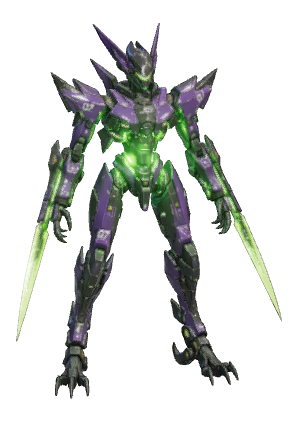
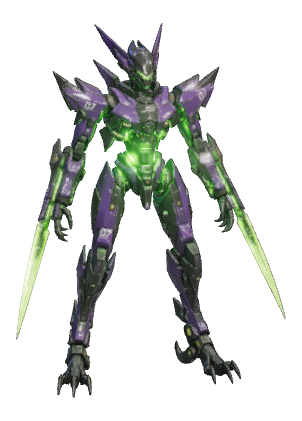
viper: install the new rig; hold its skin patch back, with the numbers
THE RIG IS IN, spliced through tools/rigfmt.mjs so the header, `skinSpan:
'child'` and the in-array comments survived (the upload is a bare editor export
and would have deleted all of it).

It genuinely helps the animation, which is measurable rather than a hunch. The
ankle bone came down off the high hock — mesh-local y 0.135 -> 0.03, i.e. 0.92
-> 0.21 world units above the sole — so Animator.calibrateFeet now measures
footDepth 0.206 against 0.925 and hands the gait

  ankleGain  0.35 -> 1.0     (the heel roll and toe-off were damped to a third)
  footFlat   1.0  -> 0       (and then levelled flat again by the long-boot rule)

Viper's foot now rolls through the amount of ground the gait was authored for,
with the sole still on the floor (-0.7% of body height at its lowest). The skin
audit likes the rig too: node tools/skindebug.mjs viper total severity
1863.5 -> 1500.9 (-19%), no new at-rest findings.

ANCHORS KEPT (house rule). muzzleR rides elbowR and muzzleL rides handL; both
bones moved, so the offsets are re-expressed to hold their rest-pose world
position: drift 0.145 / 0.128 units -> 0.0005 / 0.0006. Residual aim is 0.85 /
0.60 degrees, which is the bone's own rest orientation under the retarget and
not something a manifest number can express. The blade-trail anchors are left
alone deliberately — they ARE bladeLtip/bladeRtip at offset [0,0,0], so
following the tip the author moved is the intent, not drift. Poster re-rendered.
[…]

diff --git a/src/mechs/rigs/viper.rig.js b/src/mechs/rigs/viper.rig.js
@@ -41,37 +41,37 @@ export const VIPER_RIG = {
     //      up to the collar; bias<1 so neither loses its middle to a limb)
     { name: 'hips', parent: null, pos: [0.02, 0.60, 0.00], bias: 0.9 },
     { name: 'torso', parent: 'hips', pos: [0.00, 0.70, 0.00], bias: 0.85 },
-    { name: 'head', parent: 'torso', pos: [0.01, 0.84, 0.00], bias: 1.05 },
+    { name: 'head', parent: 'torso', pos: [0.02, 0.82, 0.00], bias: 1.05 },
     { name: 'crest', parent: 'head', pos: [0.02, 0.96, 0.00] },   // skull + horn spire
     { name: 'horn', parent: 'head', pos: [-0.10, 0.87, 0.00] },   // back-swept horns
     // ---- LEFT arm (+z) ---- pauldron on the shoulder, dagger off the forearm
-    { name: 'shoulderL', parent: 'torso', pos: [0.00, 0.790, 0.110], bias: 0.85 },
-    { name: 'elbowL', parent: 'shoulderL', pos: [0.00, 0.635, 0.185] },
-    { name: 'handL', parent: 'elbowL', pos: [0.02, 0.515, 0.245] },
-    { name: 'fingerL', parent: 'handL', pos: [0.05, 0.440, 0.270] },
+    { name: 'shoulderL', parent: 'torso', pos: [0.00, 0.78, 0.12], bias: 0.85 },
+    { name: 'elbowL', parent: 'shoulderL', pos: [-0.02, 0.64, 0.18] },
+    { name: 'handL', parent: 'elbowL', pos: [0.03, 0.51, 0.23] },
+    { name: 'fingerL', parent: 'handL', pos: [0.05, 0.44, 0.27] },
     // left dagger: root at the forearm emitter, tip at the point. bias<1 so the
     // blade wins its own verts outright over the forearm/hand spans beside it
-    { name: 'bladeL', parent: 'elbowL', pos: [0.03, 0.475, 0.275], bias: 0.75 },
-    { name: 'bladeLtip', parent: 'bladeL', pos: [0.125, 0.185, 0.375] },
+    { name: 'bladeL', parent: 'elbowL', pos: [0.03, 0.47, 0.28], bias: 0.75 },
+    { name: 'bladeLtip', parent: 'bladeL', pos: [0.13, 0.18, 0.38] },
     // ---- RIGHT arm (-z) ----
-    { name: 'shoulderR', parent: 'torso', pos: [0.00, 0.790, -0.110], bias: 0.85 },
-    { name: 'elbowR', parent: 'shoulderR', pos: [0.00, 0.635, -0.185] },
-    { name: 'handR', parent: 'elbowR', pos: [0.02, 0.505, -0.245] },
-    { name: 'fingerR', parent: 'handR', pos: [0.05, 0.430, -0.270] },
-    { name: 'bladeR', parent: 'elbowR', pos: [0.03, 0.475, -0.275], bias: 0.75 },
-    { name: 'bladeRtip', parent: 'bladeR', pos: [0.125, 0.185, -0.375] },
+    { name: 'shoulderR', parent: 'torso', pos: [0.00, 0.78, -0.12], bias: 0.85 },
+    { name: 'elbowR', parent: 'shoulderR', pos: [-0.02, 0.64, -0.18] },
+    { name: 'handR', parent: 'elbowR', pos: [0.02, 0.51, -0.25] },
+    { name: 'fingerR', parent: 'handR', pos: [0.05, 0.43, -0.27] },
+    { name: 'bladeR', parent: 'elbowR', pos: [0.03, 0.47, -0.28], bias: 0.75 },
+    { name: 'bladeRtip', parent: 'bladeR', pos: [0.13, 0.18, -0.37] },
     // ---- LEFT leg (+z) ---- digitigrade: the ankle sits high at the back of a
     //      long clawed foot, so toe/heel tips carry the talon and the spur
-    { name: 'thighL', parent: 'hips', pos: [0.01, 0.610, 0.090] },
-    { name: 'kneeL', parent: 'thighL', pos: [0.01, 0.385, 0.115] },
-    { name: 'ankleL', parent: 'kneeL', pos: [-0.01, 0.135, 0.175] },
-    { name: 'toeL', parent: 'ankleL', pos: [0.08, 0.020, 0.200] },
-    { name: 'heelL', parent: 'ankleL', pos: [-0.09, 0.030, 0.155] },
+    { name: 'thighL', parent: 'hips', pos: [0.02, 0.59, 0.07] },
+    { name: 'kneeL', parent: 'thighL', pos: [0.02, 0.36, 0.12] },
+    { name: 'ankleL', parent: 'kneeL', pos: [-0.03, 0.03, 0.17] },
+    { name: 'toeL', parent: 'ankleL', pos: [0.08, 0.02, 0.20] },
+    { name: 'heelL', parent: 'ankleL', pos: [-0.09, 0.03, 0.16] },
     // ---- RIGHT leg (-z) ----
-    { name: 'thighR', parent: 'hips', pos: [0.01, 0.610, -0.090] },
-    { name: 'kneeR', parent: 'thighR', pos: [0.01, 0.385, -0.115] },
-    { name: 'ankleR', parent: 'kneeR', pos: [-0.01, 0.130, -0.175] },
-    { name: 'toeR', parent: 'ankleR', pos: [0.08, 0.020, -0.200] },
-    { name: 'heelR', parent: 'ankleR', pos: [-0.09, 0.030, -0.155] },
+    { name: 'thighR', parent: 'hips', pos: [0.02, 0.59, -0.07] },
+    { name: 'kneeR', parent: 'thighR', pos: [0.02, 0.37, -0.12] },
+    { name: 'ankleR', parent: 'kneeR', pos: [-0.02, 0.03, -0.18] },
+    { name: 'toeR', parent: 'ankleR', pos: [0.08, 0.02, -0.20] },
+    { name: 'heelR', parent: 'ankleR', pos: [-0.09, 0.03, -0.16] },
   ],
 };

diff --git a/workbench/tools/skin.js b/workbench/tools/skin.js
@@ -1734,18 +1734,24 @@ ${state.seamCuts.inManifest ? `<div class="warn"><b>Seam cuts are NOT applied in
   // the patch this session's ops make, as an object — the one source both
   // Export (text, for pasting) and Save (POST, for writing) format from
   function opsPatch() {
-    const list = compactSkinOps(ops);
+    const list = outgoingOps();
     return altOn ? { [curId]: { alt: { skinOps: list } } } : { [curId]: { skinOps: list } };
   }
 
   // SAVE — write the ops into public/models/manifest.json on this machine via
   // the dev server (vite.config.js), so a reload of the game or any workbench
   // picks them up. Still local: committing is what publishes them.
+  // WHAT LEAVES THIS TOOL. Superseded ops dropped (compact), then every
+  // whole-island selector pinned to the vertices it means (pin) — a `{comp:N}`
+  // ordinal is only valid against the rig that drew the partition, and a rig
+  // edit renumbers it onto other geometry without a word. See pinSkinOps.
+  const outgoingOps = () => pinSkinOps(compactSkinOps(ops), analysis);
+
   const saveBtn = actionBtn('Save to manifest ▶', async () => {
-    const list = compactSkinOps(ops);
+    const list = outgoingOps();
     saveBtn.disabled = true;
     setStatus(`Saving ${list.length} op(s) to manifest.json under "${curId}${altOn ? '.alt' : ''}"…`);
-    const res = await config.skin.save(curId, compactSkinOps(ops), { variant: altOn ? 'alt' : 'glb' });
+    const res = await config.skin.save(curId, list, { variant: altOn ? 'alt' : 'glb' });
     saveBtn.disabled = false;
     if (res.ok) {
       setStatus(`SAVED — ${list.length} op(s) written to public/models/manifest.json (${res.written.join(', ')}).` +
@@ -1772,9 +1778,10 @@ ${state.seamCuts.inManifest ? `<div class="warn"><b>Seam cuts are NOT applied in
     // the ops belong to the entry they were painted on: nest them under
     // "alt" when the alternate build is loaded, or the patch would be pasted
     // onto the wrong model
+    const list = outgoingOps();
     const json = altOn
-      ? `{\n  "${curId}": {\n    "alt": {\n      "skinOps": ${skinOpsToJson(compactSkinOps(ops), '      ')}\n    }\n  }\n}`
-      : `{\n  "${curId}": {\n    "skinOps": ${skinOpsToJson(compactSkinOps(ops), '    ')}\n  }\n}`;
+      ? `{\n  "${curId}": {\n    "alt": {\n      "skinOps": ${skinOpsToJson(list, '      ')}\n    }\n  }\n}`
+      : `{\n  "${curId}": {\n    "skinOps": ${skinOpsToJson(list, '    ')}\n  }\n}`;
     out.style.display = 'block';
     out.value = json;
     out.select();

diff --git a/src/mechs/skinops.js b/src/mechs/skinops.js
@@ -622,6 +622,43 @@ export function compactSkinOps(ops) {
   });
 }
 
+/**
+ * PIN every whole-island selector to the vertex list it means RIGHT NOW.
+ *
+ * `{"comp": 25}` is an ORDINAL into the proximity partition the CURRENT rig
+ * produces, so it only means what its author meant while that rig is in place.
+ * Move one bone and the partition is redrawn — 69 islands become 47 — and every
+ * id lands on different geometry, silently: this is how jerry's back once ended
+ * up bound to his foot, and how a viper skin patch authored on the previous rig
+ * came back selecting his elbows. A VERTEX INDEX is a property of the geometry,
+ * which no rig edit can renumber, so that is the form a saved op takes.
+ *
+ * The cost is file size (an island of 1,300 vertices is ~9 KB of numbers against
+ * 20 bytes for the ordinal), which is why the workbench still WORKS in islands —
+ * it only pins them on the way out.
+ *
+ * Selectors that are not a bare island (`verts`, `bone`, `comp` + `bone`) are
+ * passed through untouched: they either already name geometry or mean something
+ * the partition can't renumber.
+ */
+export function pinSkinOps(ops, analysis) {
+  if (!ops?.length || !analysis?.comps) return ops || [];
+  return ops.map((op) => {
+    const sel = op?.sel;
+    if (!sel || sel.comp === undefined || sel.bone !== undefined) return op;
+    const comp = analysis.comps[sel.comp];
+    if (!comp?.verts?.length) return op;          // unknown id: leave it alone
+    return { ...op, sel: { ...sel, comp: undefined, verts: comp.verts.slice().sort((a, b) => a - b) } };
+  }).map((op) => {
+    // drop the now-undefined `comp` key so the JSON stays clean
+    if (op.sel && 'comp' in op.sel && op.sel.comp === undefined) {
+      const { comp, ...rest } = op.sel;
+      return { ...op, sel: rest };
+    }
+    return op;
+  });
+}
+
 // Serialize an op list one op per line — a 100-op list stays ~100 lines
 // instead of the ~800 that pretty-printed JSON produces in manifest.json.
 export function skinOpsToJson(ops, indent = '  ') {

diff --git a/workbench/adapters/robotworld/index.js b/workbench/adapters/robotworld/index.js
@@ -38,7 +38,7 @@ import {
 import { rigFor, rigIds } from '../../../src/mechs/rigs/index.js';
 import { applyCustomRig, setWeights, rebindRest, buildRigPosts } from '../../../src/mechs/reskin.js';
 import {
-  analyzeSkin, applySkinOps, compactSkinOps, skinOpsToJson,
+  analyzeSkin, applySkinOps, compactSkinOps, pinSkinOps, skinOpsToJson,
   blendPatch, weldedAdjacency, enclaveScan,
 } from '../../../src/mechs/skinops.js';
 import { applySeamCuts } from '../../../src/mechs/seamcut.js';

diff --git a/TASKS.md b/TASKS.md
@@ -12,7 +12,36 @@ controllers via Gamepad API), AI opponents.
 
 - **Phase:** ALL 10 PHASES COMPLETE ✅ — game shipped on this branch
 - **Next action:** playtesting feedback / tuning
-- **Latest:** THE MANNEQUIN IS ALSO A SUBJECT — it now sits at the bottom of
+- **Latest:** VIPER'S NEW RIG IS IN — and it is worth it for the animation: the
+  ankle bone moved from the high hock (y 0.135 mesh-local, 0.92 world above the
+  sole) down beside the sole (y 0.03, 0.21 world), so `calibrateFeet` now measures
+  footDepth 0.206 against 0.925 and hands the gait `ankleGain 1.0` where it used
+  to hand it **0.35**, with `footFlat` 1.0 → **0**. Viper's heel roll and toe-off
+  were being damped to a third of their authored amplitude and then levelled flat
+  again; they now run as written, and the sole still sits on the floor (-0.7% of
+  body height at its lowest). The skin audit likes the rig too:
+  `node tools/skindebug.mjs viper` total severity **1863.5 → 1500.9** (-19%) with
+  no new at-rest breakage. Anchors kept per the house rule — the muzzles ride
+  elbowR/handL, both bones moved, so the offsets were re-expressed to hold their
+  rest-pose world position: drift 0.145 / 0.128 units → **0.0005** (aim within
+  0.85°, which is the bone's own rest orientation and not something a manifest
+  number can express). The blade-trail anchors were left alone on purpose: they
+  ARE `bladeLtip`/`bladeRtip` at offset [0,0,0], so following the tip the author
+  moved is the intent. Poster re-rendered; `postercheck` puts viper at 15px of
+  silhouette drift (jerry already ships at 20). Hurtbox 15/15, contain 77%,
+  bloat 0.93x. Build green, soak clean.
+  **THE SKIN PATCH THAT CAME WITH IT WAS NOT SHIPPED**, with numbers: 9 of its 14
+  ops select islands by `{"comp":N}`, which is an ordinal into the partition the
+  OLD rig drew (69 islands; the new rig draws 47). Under the new rig those ids
+  land on his elbows and horn — comp 25, meant for `thighL`, selects geometry
+  0.049 from `elbowL` — and the audit total goes **1500.9 → 2872.5**. Translating
+  every comp back to the vertex list it meant under the old rig recovers most of
+  it (1794.8) but is still worse than the new rig with NO ops at all, which is
+  what shipped. `pinSkinOps` (skinops.js) now makes the workbench write vertex
+  lists instead of `comp` ordinals on Save/Export, so a future hand-off cannot
+  drift this way; `tools/gaitprobe.mjs` also got a warm-up pass (its swing ranges
+  were sampling the cold-start transient and swinging by up to 2x run to run).
+- **Previous:** THE MANNEQUIN IS ALSO A SUBJECT — it now sits at the bottom of
   every workbench's mech dropdown, under the rule with the work-in-progress
   mechs, so the reference body can be opened on its own rather than only as a
   build of some mech. It is emphatically NOT game content: `MANNEQUIN_DEF` lives

diff --git a/CLAUDE.md b/CLAUDE.md
@@ -237,6 +237,16 @@ audio). Progress history: `TASKS.md`.
   and the in-array comments. Saving is local — **Export uncommitted saves**
   (both tools, enabled only when the tree is dirty) downloads every uncommitted
   change as ONE `git apply`-able patch to hand over for committing.
+  SKIN OPS LEAVE PINNED. `{"comp":N}` is an ordinal into the proximity partition
+  the CURRENT rig draws, so a rig edit renumbers it onto other geometry without a
+  word (jerry's back once landed on his foot this way; a viper skin patch
+  authored on the previous rig came back selecting his elbows). The workbench
+  still WORKS in islands, but Save/Export run `pinSkinOps` (skinops.js) first and
+  write the vertex list each island meant — a vertex index is a property of the
+  geometry, which no rig can renumber. Ops that arrive from elsewhere still
+  carrying `comp` ids are only valid against the rig they were authored on: check
+  them with `node tools/skindebug.mjs <mech>` before and after (the severity
+  total moves the wrong way when they have shifted).
 - SKIN WORKBENCH **Debug output ▶** downloads ONE self-contained HTML file for
   handing a deformation problem to someone else: two screenshots of the current
   frame (shaded + bone colours), the full tool state (mech, build, selected
